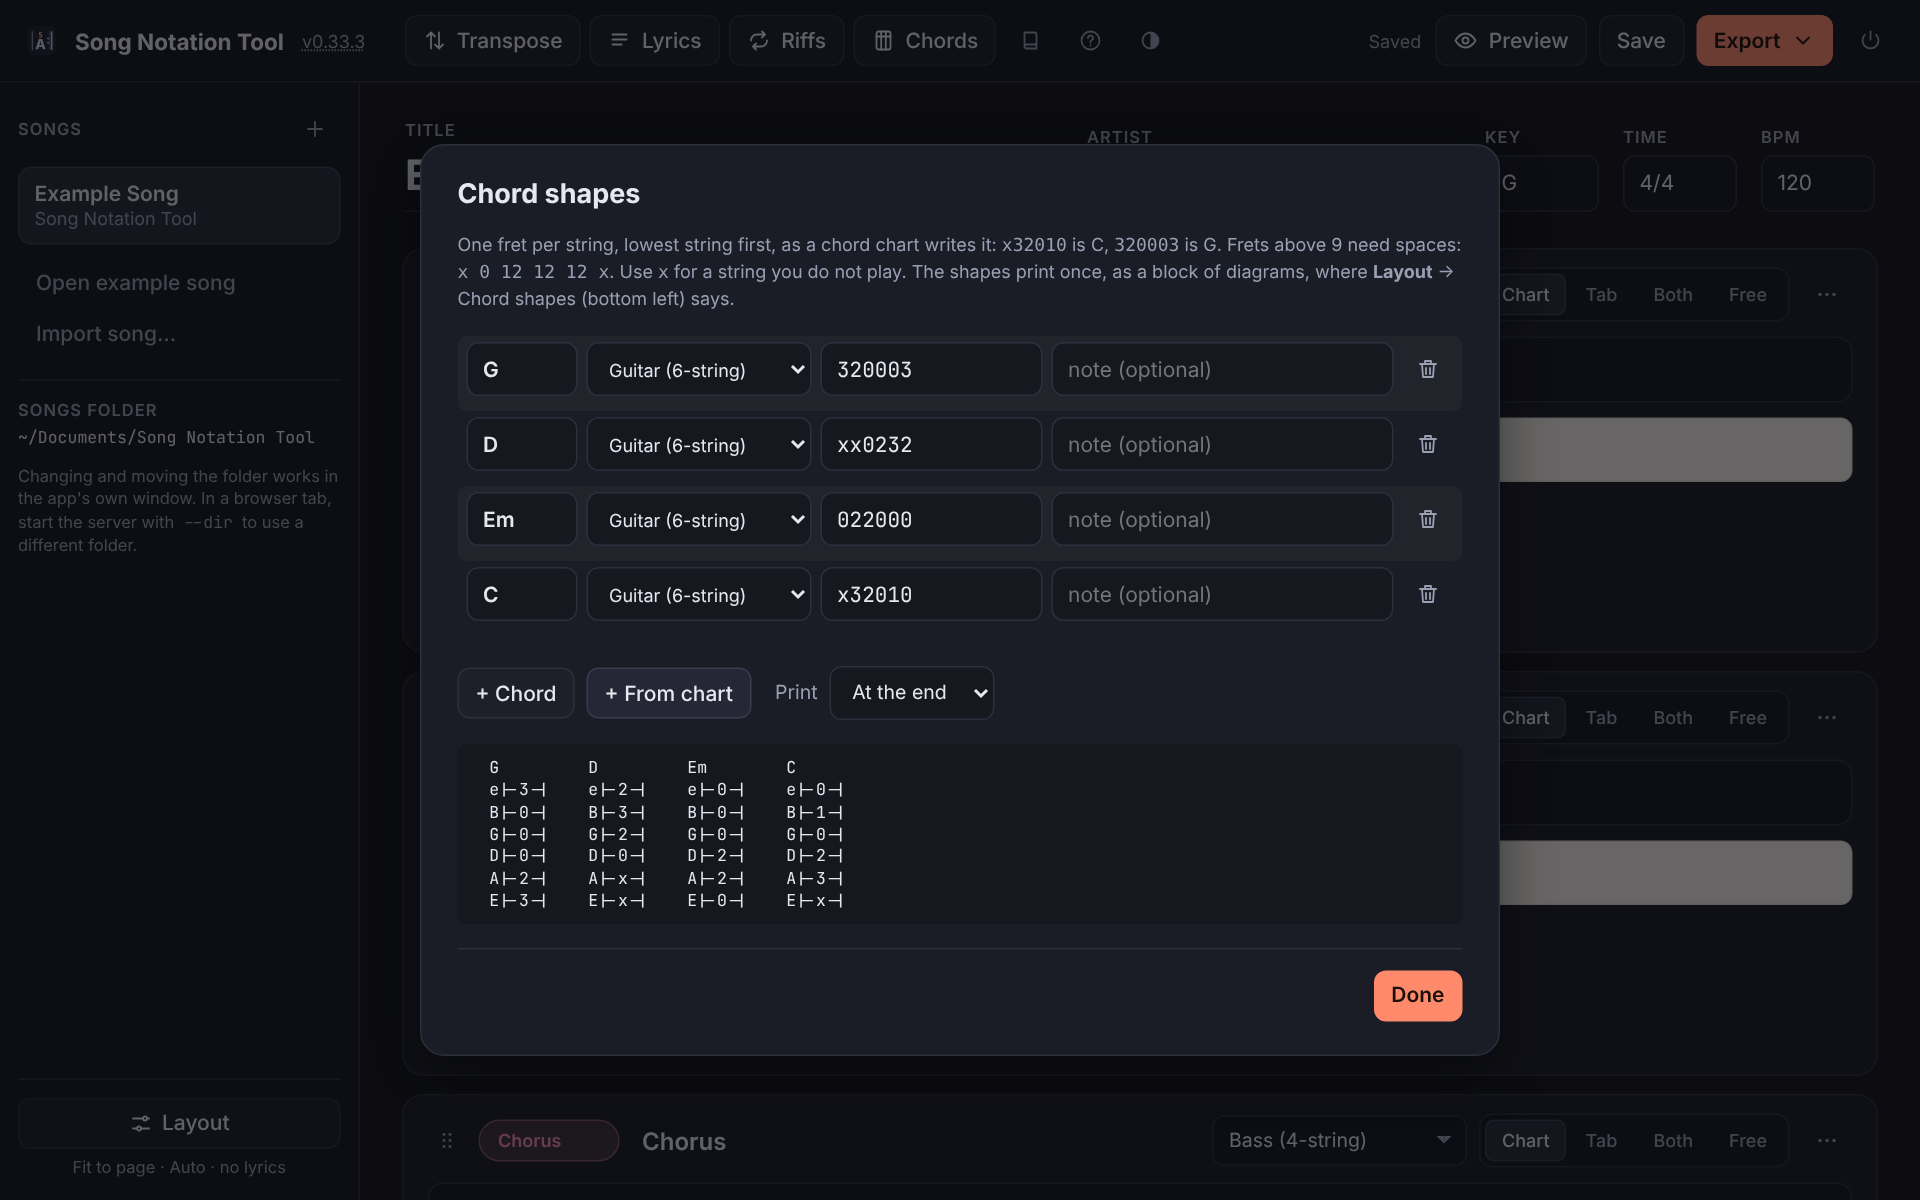
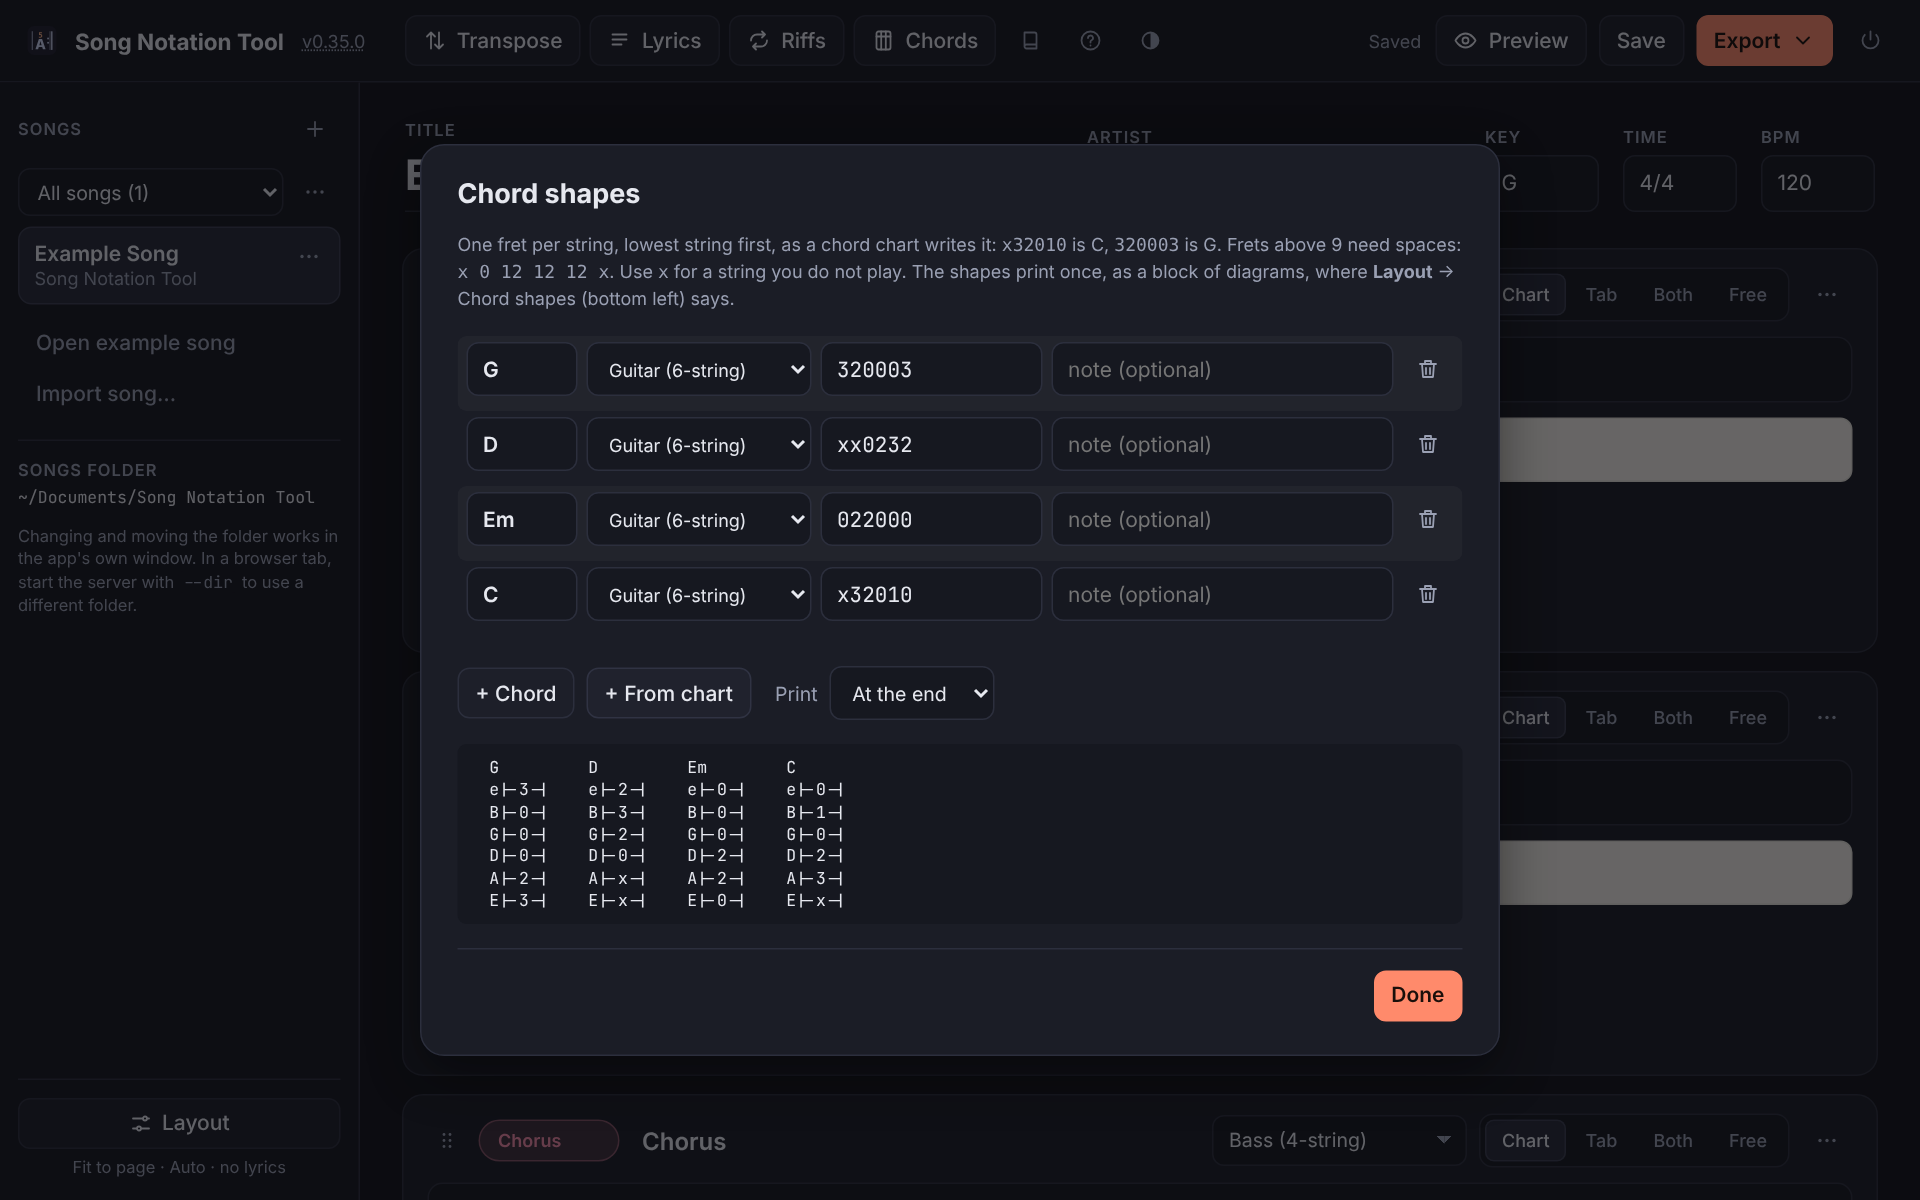
docs: screenshots for v0.35.0, with a setlist and the delete question
Claude-Session: https://claude.ai/code/session_01C97HwoTzEuZ4rz4x2CuYj5

Changed region(s): [[0.0, 0.2775, 0.1562, 0.5242], [0.0, 0.1542, 0.125, 0.2467], [0.4375, 0.555, 0.5, 0.5858]]

diff --git a/tools/shots.py b/tools/shots.py
@@ -53,6 +53,8 @@ PICTURES = [
     ("help-strip.png", "the How this works strip"),
     ("export-menu.png", "the Export menu open"),
     ("tab-grid.png", "a section in Tab, one measure made longer with +4"),
+    ("collection.png", "a setlist in the song list, a song's ⋯ menu open"),
+    ("delete-confirm.png", "the question before a song is deleted"),
 ]
 
 
@@ -228,6 +230,42 @@ def take(url: str, out: str) -> list[str]:
         card.locator(".tab-size-btn >> text=+4").nth(1).click()
         card.scroll_into_view_if_needed()
         shot("tab-grid.png", 250)
+
+        # A setlist: three more songs (invented names) and the example, in
+        # a collection in their running order, with one song's menu open.
+        page.goto(url + "/")
+        page.wait_for_timeout(600)
+        page.evaluate("""async () => {
+            const post = (u, b) => fetch(u, {method: 'POST',
+                headers: {'Content-Type': 'application/json'},
+                body: JSON.stringify(b)}).then(r => r.json());
+            const names = [];
+            for (const t of ['Night Drive', 'Paper Lanterns', 'Slow Burn']) {
+                names.push((await post('/api/songs', {title: t, artist: 'The Invented',
+                    key: 'E', time: '4/4'})).filename);
+            }
+            const songs = await (await fetch('/api/songs')).json();
+            const example = songs.find(s => !names.includes(s.filename)).filename;
+            await post('/api/library', {op: 'create', name: 'Friday set',
+                songs: [names[1], example, names[0], names[2]]});
+            await post('/api/library', {op: 'create', name: 'Album demos',
+                songs: [names[0]]});
+        }""")
+        page.goto(url + "/")
+        page.wait_for_selector("#song-list li")
+        page.select_option("#song-view", label="Friday set (4)")
+        page.wait_for_timeout(400)
+        page.click("#song-list li >> nth=1 >> .song-item")
+        page.wait_for_selector(".section-card")
+        page.wait_for_load_state("networkidle")
+        item = page.locator("#song-list li").nth(2)
+        item.hover()
+        item.locator(".song-more").click()
+        shot("collection.png", 300, park=False)
+
+        page.click("#song-menu >> text=Delete…")
+        shot("delete-confirm.png", 300)
+        page.click("#confirm-cancel")
 
         browser.close()
         if errors:

diff --git a/README.md b/README.md
@@ -235,6 +235,7 @@ insert notation at the cursor.
 <tr><td width="50%" valign="top"><a href="screenshots/section-copy.png"><img src="screenshots/section-copy.png" alt="Copy to"></a><br><b>Copy as a reference…</b> (in a section's ⋯ menu): pick where the copy of a section goes. The copy is a reference, so it plays whatever the original holds.</td><td width="50%" valign="top"><a href="screenshots/section-drag.png"><img src="screenshots/section-drag.png" alt="Moving a section"></a><br><b>Moving a section</b>: drag it by its ⠿ handle. While you drag, every card folds down to its name, so the whole song fits on screen.</td></tr>
 <tr><td width="50%" valign="top"><a href="screenshots/lyrics-dialog.png"><img src="screenshots/lyrics-dialog.png" alt="Lyrics"></a><br><b>Lyrics</b>: paste or import the words, drag a section's chip into the sheet where its words begin, then <b>Split by markers</b>.</td><td width="50%" valign="top"><a href="screenshots/chord-shapes.png"><img src="screenshots/chord-shapes.png" alt="Chord shapes"></a><br><b>Chord shapes</b>: voicings typed as <code>x32010</code> and checked against the chords the chart plays. <b>+ From chart</b> adds the missing ones.</td></tr>
 <tr><td width="50%" valign="top"><a href="screenshots/notation-reference.png"><img src="screenshots/notation-reference.png" alt="Notation reference"></a><br><b>Notation reference</b>: everything you can type on a chart line, with examples checked against the real parser.</td><td width="50%" valign="top"><a href="screenshots/help-strip.png"><img src="screenshots/help-strip.png" alt="How this works"></a><br><b>How this works</b>: the ideas behind the chart line, one line each.</td></tr>
+<tr><td width="50%" valign="top"><a href="screenshots/collection.png"><img src="screenshots/collection.png" alt="A setlist"></a><br><b>Collections</b>: a setlist in its running order. A song's ⋯ menu ticks its collections, hides it or deletes it, and the whole set prints as one PDF.</td><td width="50%" valign="top"><a href="screenshots/delete-confirm.png"><img src="screenshots/delete-confirm.png" alt="Delete this song?"></a><br><b>Delete</b> asks first, with Cancel ready. The song waits in Deleted songs, where <b>Restore</b> puts it back, until you empty the trash.</td></tr>
 <tr><td width="50%" valign="top"><a href="screenshots/export-menu.png"><img src="screenshots/export-menu.png" alt="Export"></a><br><b>Export</b>: TXT, PDF in portrait or landscape, or the system print dialog.</td><td width="50%" valign="top"><a href="screenshots/tab-grid.png"><img src="screenshots/tab-grid.png" alt="A tab section"></a><br><b>Tab</b>: a grid of fret numbers. <b>+2</b> and <b>+4</b> over a measure make room for more notes in that measure only.</td></tr>
 </table>
 
